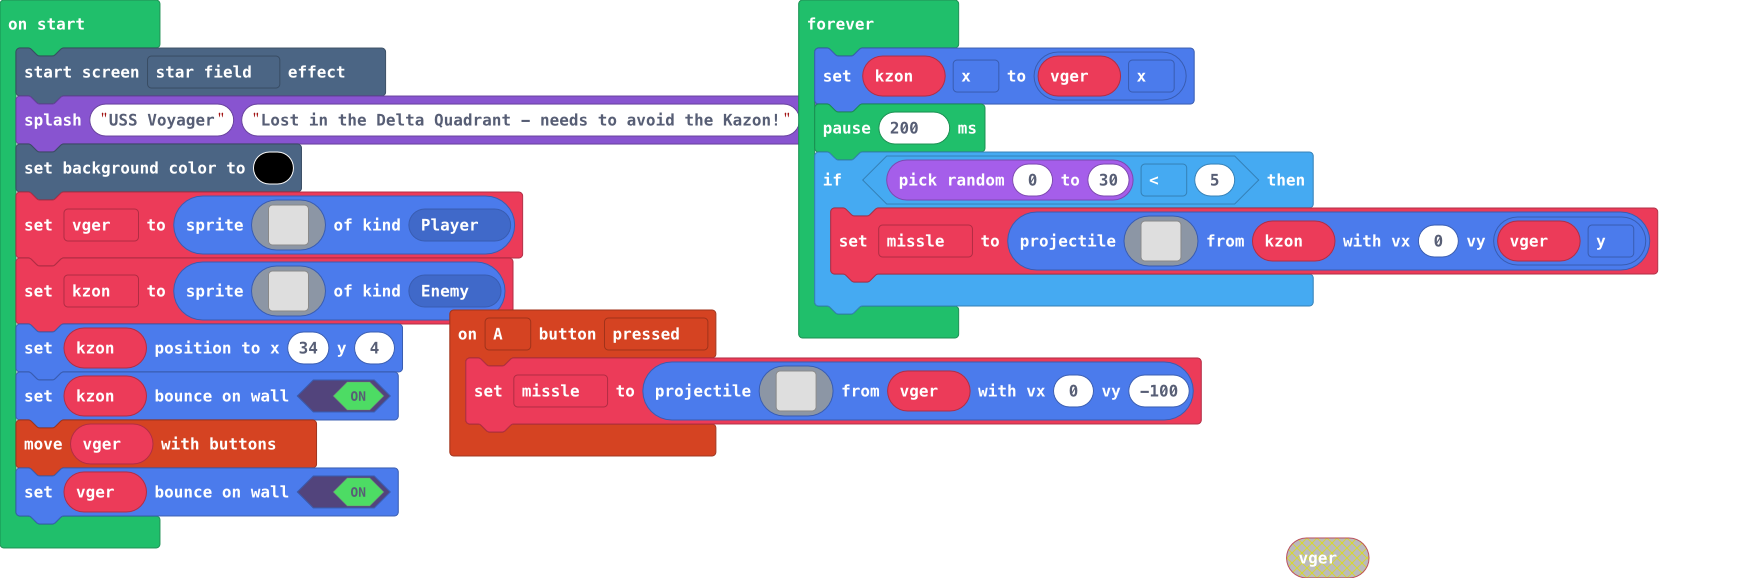
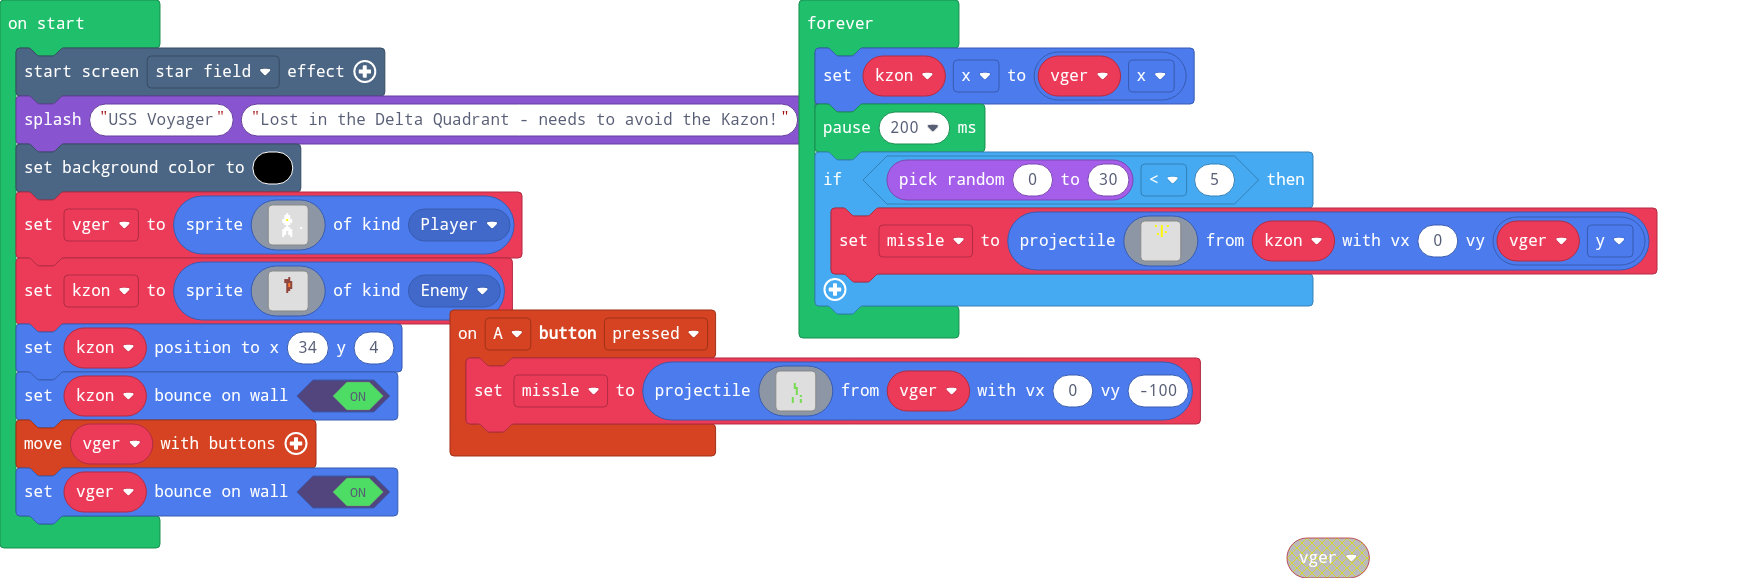
Update pxt.json, main.blocks, main.ts, images.g.jres, images.g.ts

diff --git a/images.g.ts b/images.g.ts
@@ -41,25 +41,6 @@ namespace myImages {
 . . . . . . . . . . . . . . . . 
 . . . . . . . . . . . . . . . . 
 `;
-            case "image2":
-            case "missle":return img`
-. . . . . 5 . . 5 . . 5 . . . . 
-. . . . . . . . 5 . . . . . . . 
-. . . . . . . . 5 . . . . . . . 
-. . . . . . . . 5 . 5 . . . . . 
-. . . . . . 5 . 5 . . . . . . . 
-. . . . . . . . 5 . . . . . . . 
-. . . . . . . . . . . . . . . . 
-. . . . . . . . . . . . . . . . 
-. . . . . . . . . . . . . . . . 
-. . . . . . . . . . . . . . . . 
-. . . . . . . . . . . . . . . . 
-. . . . . . . . . . . . . . . . 
-. . . . . . . . . . . . . . . . 
-. . . . . . . . . . . . . . . . 
-. . . . . . . . . . . . . . . . 
-. . . . . . . . . . . . . . . . 
-`;
             case "image4":
             case "missle0":return img`
 . . . . . . . . . . . . . . . . 
@@ -76,6 +57,25 @@ namespace myImages {
 . . . . . . 7 . . . . . . . . . 
 . . . . . . 7 . . . 7 . . . . . 
 . . . . . . 7 . . . 7 . . . . . 
+. . . . . . . . . . . . . . . . 
+. . . . . . . . . . . . . . . . 
+`;
+            case "image2":
+            case "missle":return img`
+. . . . . 5 . . 5 . . 5 . . . . 
+. . . . . . . . 5 . . . . . . . 
+. . . . . . . . 5 . . . . . . . 
+. . . . . . . . 5 . 5 . . . . . 
+. . . . . . 5 . 5 . . . . . . . 
+. . . . . . . . 5 . . . . . . . 
+. . . . . . . . . . . . . . . . 
+. . . . . . . . . . . . . . . . 
+. . . . . . . . . . . . . . . . 
+. . . . . . . . . . . . . . . . 
+. . . . . . . . . . . . . . . . 
+. . . . . . . . . . . . . . . . 
+. . . . . . . . . . . . . . . . 
+. . . . . . . . . . . . . . . . 
 . . . . . . . . . . . . . . . . 
 . . . . . . . . . . . . . . . . 
 `;

diff --git a/main.ts b/main.ts
@@ -1,17 +1,31 @@
 controller.A.onEvent(ControllerButtonEvent.Pressed, function () {
-    missle = sprites.createProjectileFromSprite(assets.image`missle0`, vger, 0, -100)
+    Vmiss = sprites.createProjectileFromSprite(assets.image`missle0`, vger, 0, -100)
+    music.pewPew.play()
+})
+sprites.onOverlap(SpriteKind.Projectile, SpriteKind.Player, function (sprite, otherSprite) {
+    if (sprite == missle) {
+        info.changeLifeBy(-1)
+    }
+})
+sprites.onOverlap(SpriteKind.Projectile, SpriteKind.Enemy, function (sprite, otherSprite) {
+    if (otherSprite == kzon) {
+        info.changeScoreBy(1)
+    }
 })
 let missle: Sprite = null
+let Vmiss: Sprite = null
+let kzon: Sprite = null
 let vger: Sprite = null
 effects.starField.startScreenEffect()
 game.splash("USS Voyager", "Lost in the Delta Quadrant - needs to avoid the Kazon!")
 scene.setBackgroundColor(15)
 vger = sprites.create(assets.image`Voyager`, SpriteKind.Player)
-let kzon = sprites.create(assets.image`myImage`, SpriteKind.Enemy)
+kzon = sprites.create(assets.image`myImage`, SpriteKind.Enemy)
 kzon.setPosition(34, 4)
 kzon.setBounceOnWall(true)
 controller.moveSprite(vger)
 vger.setBounceOnWall(true)
+info.setLife(5)
 forever(function () {
     kzon.x = vger.x
     pause(200)
